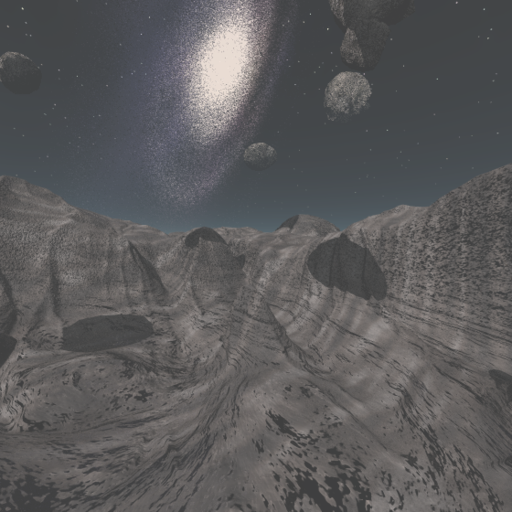
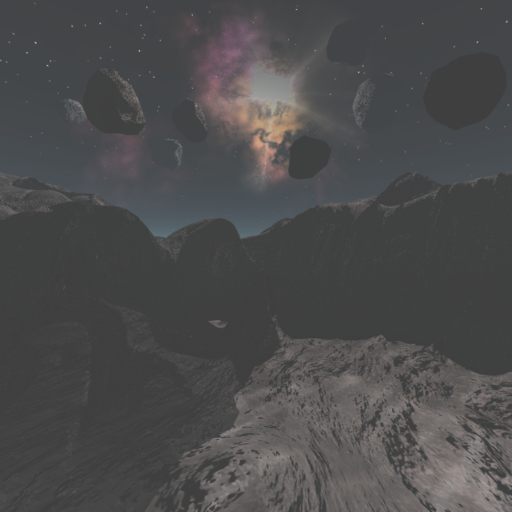
skybox 但 機器人顏色怪怪

diff --git a/Source/Robot.h b/Source/Robot.h
@@ -73,57 +73,57 @@ public:
 	void initRobotPart() {
 		allObjs.push_back(&body);
 		body.init("../Assets/Robot/body.obj", "../Assets/Robot/gundam.mtl", 0);
-
-		// allObjs.push_back(&ulefthand);
-		// ulefthand.init("../Assets/Robot/ulefthand.obj", "../Assets/Robot/gundam.mtl", 1);
-		// 
-		// allObjs.push_back(&dlefthand);
-		// dlefthand.init("../Assets/Robot/dlefthand.obj", "../Assets/Robot/gundam.mtl", 2);
-		// 
-		// allObjs.push_back(&lefthand);
-		// lefthand.init("../Assets/Robot/lefthand.obj", "../Assets/Robot/gundam.mtl", 3);
-		// 
-		// allObjs.push_back(&lshouder);
-		// lshouder.init("../Assets/Robot/lshouder.obj", "../Assets/Robot/gundam.mtl", 4);
-		// 
-		// allObjs.push_back(&head);
-		// head.init("../Assets/Robot/head.obj", "../Assets/Robot/gundam.mtl", 5);
-		// 
-		// allObjs.push_back(&urighthand);
-		// urighthand.init("../Assets/Robot/urighthand.obj", "../Assets/Robot/gundam.mtl", 6);
-		// 
-		// allObjs.push_back(&drighthand);
-		// drighthand.init("../Assets/Robot/drighthand.obj", "../Assets/Robot/gundam.mtl", 7);
-		// 
-		// allObjs.push_back(&righthand);
-		// righthand.init("../Assets/Robot/righthand.obj", "../Assets/Robot/gundam.mtl", 8);
-		// 
-		// allObjs.push_back(&rshouder);
-		// rshouder.init("../Assets/Robot/rshouder.obj", "../Assets/Robot/gundam.mtl", 9);
-		// 
-		// allObjs.push_back(&back2);
-		// back2.init("../Assets/Robot/back2.obj", "../Assets/Robot/gundam.mtl", 10);
-		// 
-		// allObjs.push_back(&dbody);
-		// dbody.init("../Assets/Robot/dbody.obj", "../Assets/Robot/gundam.mtl", 11);
-		// 
-		// allObjs.push_back(&uleftleg);
-		// uleftleg.init("../Assets/Robot/uleftleg.obj", "../Assets/Robot/gundam.mtl", 12);
-		// 
-		// allObjs.push_back(&dleftleg);
-		// dleftleg.init("../Assets/Robot/dleftleg.obj", "../Assets/Robot/gundam.mtl", 13);
-		// 
-		// allObjs.push_back(&leftfoot);
-		// leftfoot.init("../Assets/Robot/leftfoot.obj", "../Assets/Robot/gundam.mtl", 14);
-		// 
-		// allObjs.push_back(&urightleg);
-		// urightleg.init("../Assets/Robot/urightleg.obj", "../Assets/Robot/gundam.mtl", 15);
-		// 
-		// allObjs.push_back(&drightleg);
-		// drightleg.init("../Assets/Robot/drightleg.obj", "../Assets/Robot/gundam.mtl", 16);
-		// 
-		// allObjs.push_back(&rightfoot);
-		// rightfoot.init("../Assets/Robot/rightfoot.obj", "../Assets/Robot/gundam.mtl", 17);
+		
+		allObjs.push_back(&ulefthand);
+		ulefthand.init("../Assets/Robot/ulefthand.obj", "../Assets/Robot/gundam.mtl", 1);
+		
+		allObjs.push_back(&dlefthand);
+		dlefthand.init("../Assets/Robot/dlefthand.obj", "../Assets/Robot/gundam.mtl", 2);
+		
+		allObjs.push_back(&lefthand);
+		lefthand.init("../Assets/Robot/lefthand.obj", "../Assets/Robot/gundam.mtl", 3);
+		
+		allObjs.push_back(&lshouder);
+		lshouder.init("../Assets/Robot/lshouder.obj", "../Assets/Robot/gundam.mtl", 4);
+		
+		allObjs.push_back(&head);
+		head.init("../Assets/Robot/head.obj", "../Assets/Robot/gundam.mtl", 5);
+		
+		allObjs.push_back(&urighthand);
+		urighthand.init("../Assets/Robot/urighthand.obj", "../Assets/Robot/gundam.mtl", 6);
+		
+		allObjs.push_back(&drighthand);
+		drighthand.init("../Assets/Robot/drighthand.obj", "../Assets/Robot/gundam.mtl", 7);
+		
+		allObjs.push_back(&righthand);
+		righthand.init("../Assets/Robot/righthand.obj", "../Assets/Robot/gundam.mtl", 8);
+		
+		allObjs.push_back(&rshouder);
+		rshouder.init("../Assets/Robot/rshouder.obj", "../Assets/Robot/gundam.mtl", 9);
+		
+		allObjs.push_back(&back2);
+		back2.init("../Assets/Robot/back2.obj", "../Assets/Robot/gundam.mtl", 10);
+		
+		allObjs.push_back(&dbody);
+		dbody.init("../Assets/Robot/dbody.obj", "../Assets/Robot/gundam.mtl", 11);
+		
+		allObjs.push_back(&uleftleg);
+		uleftleg.init("../Assets/Robot/uleftleg.obj", "../Assets/Robot/gundam.mtl", 12);
+		
+		allObjs.push_back(&dleftleg);
+		dleftleg.init("../Assets/Robot/dleftleg.obj", "../Assets/Robot/gundam.mtl", 13);
+		
+		allObjs.push_back(&leftfoot);
+		leftfoot.init("../Assets/Robot/leftfoot.obj", "../Assets/Robot/gundam.mtl", 14);
+		
+		allObjs.push_back(&urightleg);
+		urightleg.init("../Assets/Robot/urightleg.obj", "../Assets/Robot/gundam.mtl", 15);
+		
+		allObjs.push_back(&drightleg);
+		drightleg.init("../Assets/Robot/drightleg.obj", "../Assets/Robot/gundam.mtl", 16);
+		
+		allObjs.push_back(&rightfoot);
+		rightfoot.init("../Assets/Robot/rightfoot.obj", "../Assets/Robot/gundam.mtl", 17);
 	}
 	
 	void addRobots() {

diff --git a/Source/MyObject.h b/Source/MyObject.h
@@ -24,6 +24,7 @@ protected:
 	std::vector<glm::vec3>	KDs;
 	int indicesSize;
 	int drawType;
+	std::map<GLuint, GLenum> buffer;
 
 public:
 	static const int DRAW_TYPE_INSTANCE;
@@ -98,7 +99,7 @@ public:
 		drawType(type)
 	{
 		glGenVertexArrays(1, &vao);
-		glBindVertexArray(vao);
+		// glBindVertexArray(vao);
 	}
 	void init(char* objFile, char* mtlFIle = nullptr, int index = 0) {
 		glBindVertexArray(vao);
@@ -111,18 +112,21 @@ public:
 		glBufferData(GL_ARRAY_BUFFER, vertexs.size() * sizeof(float) * 3, &vertexs[0], GL_STATIC_DRAW);
 		glEnableVertexAttribArray(0);
 		glVertexAttribPointer(0, 3, GL_FLOAT, GL_FALSE, 0, NULL);
+		buffer[vertexs_vbo] = GL_ARRAY_BUFFER;
 
 		glGenBuffers(1, &uvs_vbo);
 		glBindBuffer(GL_ARRAY_BUFFER, uvs_vbo);
 		glBufferData(GL_ARRAY_BUFFER, uvs.size() * sizeof(float) * 2, &uvs[0], GL_STATIC_DRAW);
 		glEnableVertexAttribArray(1);
 		glVertexAttribPointer(1, 2, GL_FLOAT, GL_FALSE, 0, NULL);
+		buffer[uvs_vbo] = GL_ARRAY_BUFFER;
 
 		glGenBuffers(1, &normals_vbo);
 		glBindBuffer(GL_ARRAY_BUFFER, normals_vbo);
 		glBufferData(GL_ARRAY_BUFFER, normals.size() * sizeof(float) * 3, &normals[0], GL_STATIC_DRAW);
 		glEnableVertexAttribArray(2);
 		glVertexAttribPointer(2, 3, GL_FLOAT, GL_FALSE, 0, NULL);
+		buffer[normals_vbo] = GL_ARRAY_BUFFER;
 
 		glGenBuffers(1, &offsets_vbo);
 		glBindBuffer(GL_ARRAY_BUFFER, offsets_vbo);
@@ -132,12 +136,15 @@ public:
 		if (drawType == DRAW_TYPE_NORMAL) {
 			glBufferData(GL_ARRAY_BUFFER, offsets.size() * sizeof(float) * 3, &offsets[0], GL_STATIC_DRAW);
 		}
+		buffer[offsets_vbo] = GL_ARRAY_BUFFER;
 
 		glGenBuffers(1, &kds_vbo);
 		glBindBuffer(GL_ARRAY_BUFFER, kds_vbo);
 		glBufferData(GL_ARRAY_BUFFER, KDs.size() * sizeof(float) * 3, &KDs[0], GL_STATIC_DRAW);
 		glEnableVertexAttribArray(4);
 		glVertexAttribPointer(4, 3, GL_FLOAT, GL_FALSE, 0, NULL);
+		buffer[kds_vbo] = GL_ARRAY_BUFFER;
+
 		glBindVertexArray(NULL);
 	}
 
@@ -146,23 +153,26 @@ public:
 
 		glGenBuffers(1, &vertexs_vbo);
 		glBindBuffer(GL_ARRAY_BUFFER, vertexs_vbo);
-		glBufferData(GL_ARRAY_BUFFER, verticesSize, vertices, GL_STATIC_DRAW);
+		glBufferData(GL_ARRAY_BUFFER, sizeof(float) * verticesSize, vertices, GL_STATIC_DRAW);
 		glVertexAttribPointer(0, 3, GL_FLOAT, GL_FALSE, 0, NULL);
 		glEnableVertexAttribArray(0);
+		buffer[vertexs_vbo] = GL_ARRAY_BUFFER;
 
 		glGenBuffers(1, &ebo);
 		glBindBuffer(GL_ELEMENT_ARRAY_BUFFER, ebo);
-		glBufferData(GL_ELEMENT_ARRAY_BUFFER, indicesSize, indices, GL_STATIC_DRAW);
+		glBufferData(GL_ELEMENT_ARRAY_BUFFER, sizeof(int) * indicesSize, indices, GL_STATIC_DRAW);
+		buffer[ebo] = GL_ELEMENT_ARRAY_BUFFER;
 
-		glBindBuffer(GL_ARRAY_BUFFER, 0);
 		glBindVertexArray(0);
-
 		this->indicesSize = indicesSize;
 	}
 
 	void use() {
 		shader->use();
 		glBindVertexArray(vao);
+		for (auto buf : buffer) {
+			glBindBuffer(buf.second, buf.first);
+		}
 	}
 
 	void setMt(glm::mat4x4* modelMt, glm::mat4x4* viewMt = nullptr, glm::mat4x4* projectMt = nullptr) {
@@ -190,7 +200,7 @@ public:
 			glDrawArraysInstanced(GL_TRIANGLES, 0, size(), offsets.size());
 		}
 		else if (drawType == DRAW_TYPE_ELEMENT) {
-			glDrawElements(GL_TRIANGLES, 36, GL_UNSIGNED_INT, 0);
+			glDrawElements(GL_TRIANGLES, this->indicesSize, GL_UNSIGNED_INT, 0);
 		}
 	}
 

diff --git a/Source/Skybox.h b/Source/Skybox.h
@@ -87,18 +87,23 @@ namespace Skybox {
 		glTexParameteri(GL_TEXTURE_CUBE_MAP, GL_TEXTURE_MAG_FILTER, GL_LINEAR);
 
 		glBindTexture(GL_TEXTURE_CUBE_MAP, 0);
+
+		// CheckGLError();
 	}
 
 	void init() {
 		skyboxShader = new MyShader("../Source/SkyboxShader.vs", "../Source/SkyboxShader.fs");
 		skybox = new MyObject(skyboxShader, MyObject::DRAW_TYPE_ELEMENT);
 
-		skybox -> init(vertices, indices, sizeof(vertices), sizeof(indices));
+		skybox -> init(vertices, indices, sizeof(vertices) / sizeof(float), sizeof(indices)/sizeof(int));
+
+		glEnable(GL_TEXTURE_2D);
 		loadTextures();
 	}
 
 	void use()
 	{
+		glEnable(GL_TEXTURE_2D);
 		skybox->use();
 		glActiveTexture(GL_TEXTURE0);
 		glBindTexture(GL_TEXTURE_CUBE_MAP, textureID);

diff --git a/Source/Main.cpp b/Source/Main.cpp
@@ -3,7 +3,6 @@
 #include "../Source/MyShader.h"
 #include "../Source/Menu.h"
 #include "../Source/Skybox.h"
-#include <conio.h>
 
 glm::mat4x4 modelMt;
 glm::mat4x4 viewMt;
@@ -69,10 +68,6 @@ void My_Timer(int val)
 	glutPostRedisplay();     //使程式於下次迴圈執行時更新畫面
 	glutTimerFunc(16, My_Timer, val);
 
-	char ch;
-	if (_kbhit()) {
-	}
-
 	robot -> update();
 	My_Display();
 }
@@ -121,6 +116,11 @@ int main(int argc, char **argv)
 	glEnable(GL_DEPTH_TEST);
 	glCullFace(GL_BACK);
 	glEnable(GL_CULL_FACE);
+
+	glDepthFunc(GL_LEQUAL);
+	glEnable(GL_TEXTURE_2D);
+	glEnable(GL_BLEND);
+	glBlendFunc(GL_SRC_ALPHA, GL_ONE_MINUS_SRC_ALPHA);
 
 	glClearColor(1.0f, 1.0f, 1.0f, 1.0f);
 

diff --git a/Source/MyShader.h b/Source/MyShader.h
@@ -35,9 +35,9 @@ public:
 		glLinkProgram(program);
 
 		glUseProgram(program);
-		locModel = glGetUniformLocation(program, "Model");
-		locView = glGetUniformLocation(program, "View");
 		locProject = glGetUniformLocation(program, "Projection");
+		locView = glGetUniformLocation(program, "View");
+		locModel = glGetUniformLocation(program, "Model");
 		locKd = glGetUniformLocation(program, "Kd");
 		locKa = glGetUniformLocation(program, "Ka");
 		glUseProgram(NULL);

diff --git a/Include/Common.h b/Include/Common.h
@@ -60,6 +60,19 @@ void ShaderLog(GLuint shader)
 	}
 }
 
+bool CheckGLError()
+{
+	GLenum errCode = glGetError();
+	if (errCode != GL_NO_ERROR)
+	{
+		const GLubyte* errString = gluErrorString(errCode);
+		printf("%s\n", errString);
+
+		return false;
+	}
+	return true;
+}
+
 void PrintGLError()
 {
     GLenum code = glGetError();
